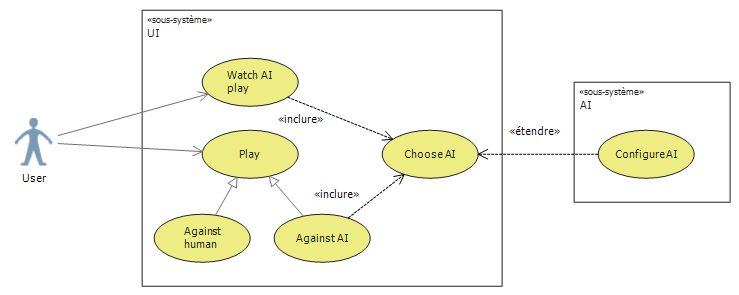
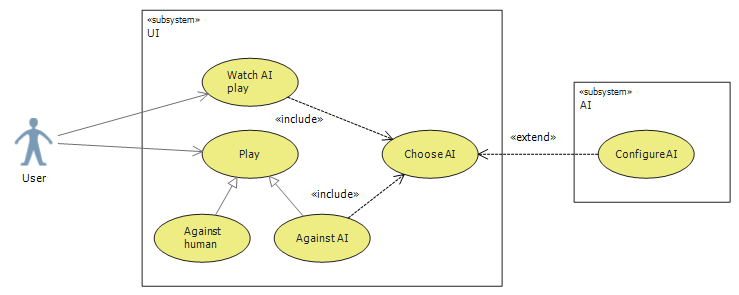
English UCD

diff --git a/Docs/Reports/Report_2/2General_Architecture/2.1Behaviour_of_the_Game/GameBehaviour.tex b/Docs/Reports/Report_2/2General_Architecture/2.1Behaviour_of_the_Game/GameBehaviour.tex
@@ -4,7 +4,7 @@ In the case where several AI have been implemented, the user will be able to cho
 
 \begin{figure}[!h]
 \centering
-\includegraphics[width=0.7\textwidth]{2General_Architecture/2.1Behaviour_of_the_Game/Pictures/Application_UCD}
+\includegraphics[width=\textwidth]{2General_Architecture/2.1Behaviour_of_the_Game/Pictures/Application_UCD}
 \caption{The user-case diagram describing the application}
 \label{fig:UCD_Play}
 \end{figure}
